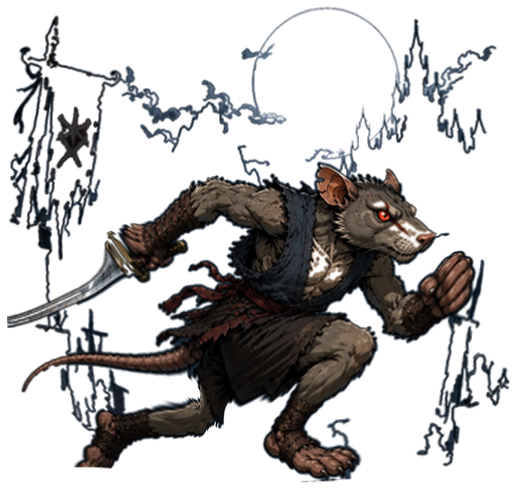
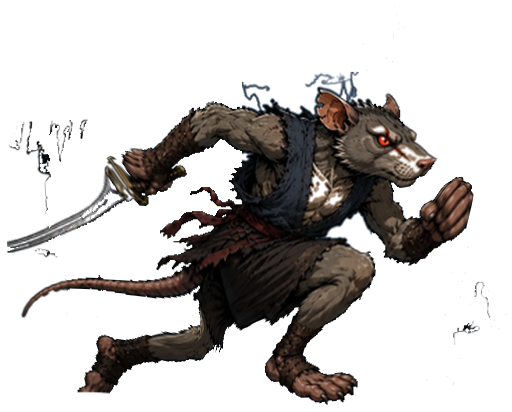
Face movement direction and remove background line-art clutter
Characters now face whichever way they're actually moving instead of
always facing the opponent, so backing away visually reads as backing
away instead of moonwalking. Also strips the leftover blue line-art
squiggles from the running frames for all three characters.

diff --git a/public/index.html b/public/index.html
@@ -242,7 +242,7 @@ addChar(Object.assign({
   fur:'#2b2438', furDark:'#1a1624', belly:'#4a4460', eye:'#7bd389',
   blurb:'Silent hunter · deadly claws',
   sprite:{body:'img/shade_body.png', weapon:'img/shade_weapon.png', pivot:[205,222], weaponPivot:[32,32],
-    runFrames:{files:['img/shade_run_f0.png','img/shade_run_f1.png','img/shade_run_f2.png','img/shade_run_f3.png','img/shade_run_f4.png','img/shade_run_f5.png','img/shade_run_f6.png','img/shade_run_f7.png','img/shade_run_f8.png','img/shade_run_f9.png'], groundYs:[464,471,475,475,471,464,461,459,459,461], w:461, h:481}}
+    runFrames:{files:['img/shade_run_f0.png','img/shade_run_f1.png','img/shade_run_f2.png','img/shade_run_f3.png','img/shade_run_f4.png','img/shade_run_f5.png','img/shade_run_f6.png','img/shade_run_f7.png','img/shade_run_f8.png','img/shade_run_f9.png'], groundYs:[464,471,475,475,471,464,461,459,459,461], w:444, h:481}}
 }, makeAttacks('War Claws')));
 
 addChar(Object.assign({
@@ -251,7 +251,7 @@ addChar(Object.assign({
   fur:'#8a7a5c', furDark:'#5c4f38', belly:'#c7b98f', eye:'#ff2e2e',
   blurb:'Scarred and vicious · never backs down',
   sprite:{body:'img/gnash_body.png', weapon:'img/gnash_weapon.png', pivot:[68,128], weaponPivot:[32,32],
-    runFrames:{files:['img/gnash_run_f0.png','img/gnash_run_f1.png','img/gnash_run_f2.png','img/gnash_run_f3.png','img/gnash_run_f4.png','img/gnash_run_f5.png','img/gnash_run_f6.png','img/gnash_run_f7.png','img/gnash_run_f8.png','img/gnash_run_f9.png'], groundYs:[465,477,481,481,477,465,460,459,459,460], w:515, h:488}}
+    runFrames:{files:['img/gnash_run_f0.png','img/gnash_run_f1.png','img/gnash_run_f2.png','img/gnash_run_f3.png','img/gnash_run_f4.png','img/gnash_run_f5.png','img/gnash_run_f6.png','img/gnash_run_f7.png','img/gnash_run_f8.png','img/gnash_run_f9.png'], groundYs:[390,400,404,404,400,390,379,370,370,379], w:512, h:412}}
 }, makeAttacks('Katana')));
 
 addChar(Object.assign({
@@ -260,7 +260,7 @@ addChar(Object.assign({
   fur:'#b9863f', furDark:'#7d5c2a', belly:'#e6d3a0', eye:'#ffa726',
   blurb:'Moonlit raider · unbreakable guard',
   sprite:{body:'img/howler_body.png', weapon:'img/howler_weapon.png', pivot:[112,158], weaponPivot:[104,87],
-    runFrames:{files:['img/howler_run_f0.png','img/howler_run_f1.png','img/howler_run_f2.png','img/howler_run_f3.png','img/howler_run_f4.png','img/howler_run_f5.png','img/howler_run_f6.png','img/howler_run_f7.png','img/howler_run_f8.png','img/howler_run_f9.png'], groundYs:[473,487,490,490,487,473,466,463,463,466], w:455, h:497}}
+    runFrames:{files:['img/howler_run_f0.png','img/howler_run_f1.png','img/howler_run_f2.png','img/howler_run_f3.png','img/howler_run_f4.png','img/howler_run_f5.png','img/howler_run_f6.png','img/howler_run_f7.png','img/howler_run_f8.png','img/howler_run_f9.png'], groundYs:[448,462,465,465,462,448,441,438,438,441], w:455, h:472}}
 }, makeAttacks('Sword & Shield')));
 
 function allIds(){ return Object.keys(CHARS); }
@@ -707,8 +707,10 @@ function computeCpuInput(cpu, target){
 function updateFighter(f, fList){
   f.animT++;
   const target = findNearestEnemy(f, fList);
-  if(f.state!=='attack' && f.state!=='hitstun' && f.state!=='ko' && target){
-    f.facing = (target.x>=f.x) ? 1 : -1;
+  if(f.state!=='attack' && f.state!=='hitstun' && f.state!=='ko'){
+    if(!f.input.down && f.input.left) f.facing = -1;
+    else if(!f.input.down && f.input.right) f.facing = 1;
+    else if(target) f.facing = (target.x>=f.x) ? 1 : -1;
   }
   const lightEdge = f.input.light && !f.prevLight;
   const heavyEdge = f.input.heavy && !f.prevHeavy;
